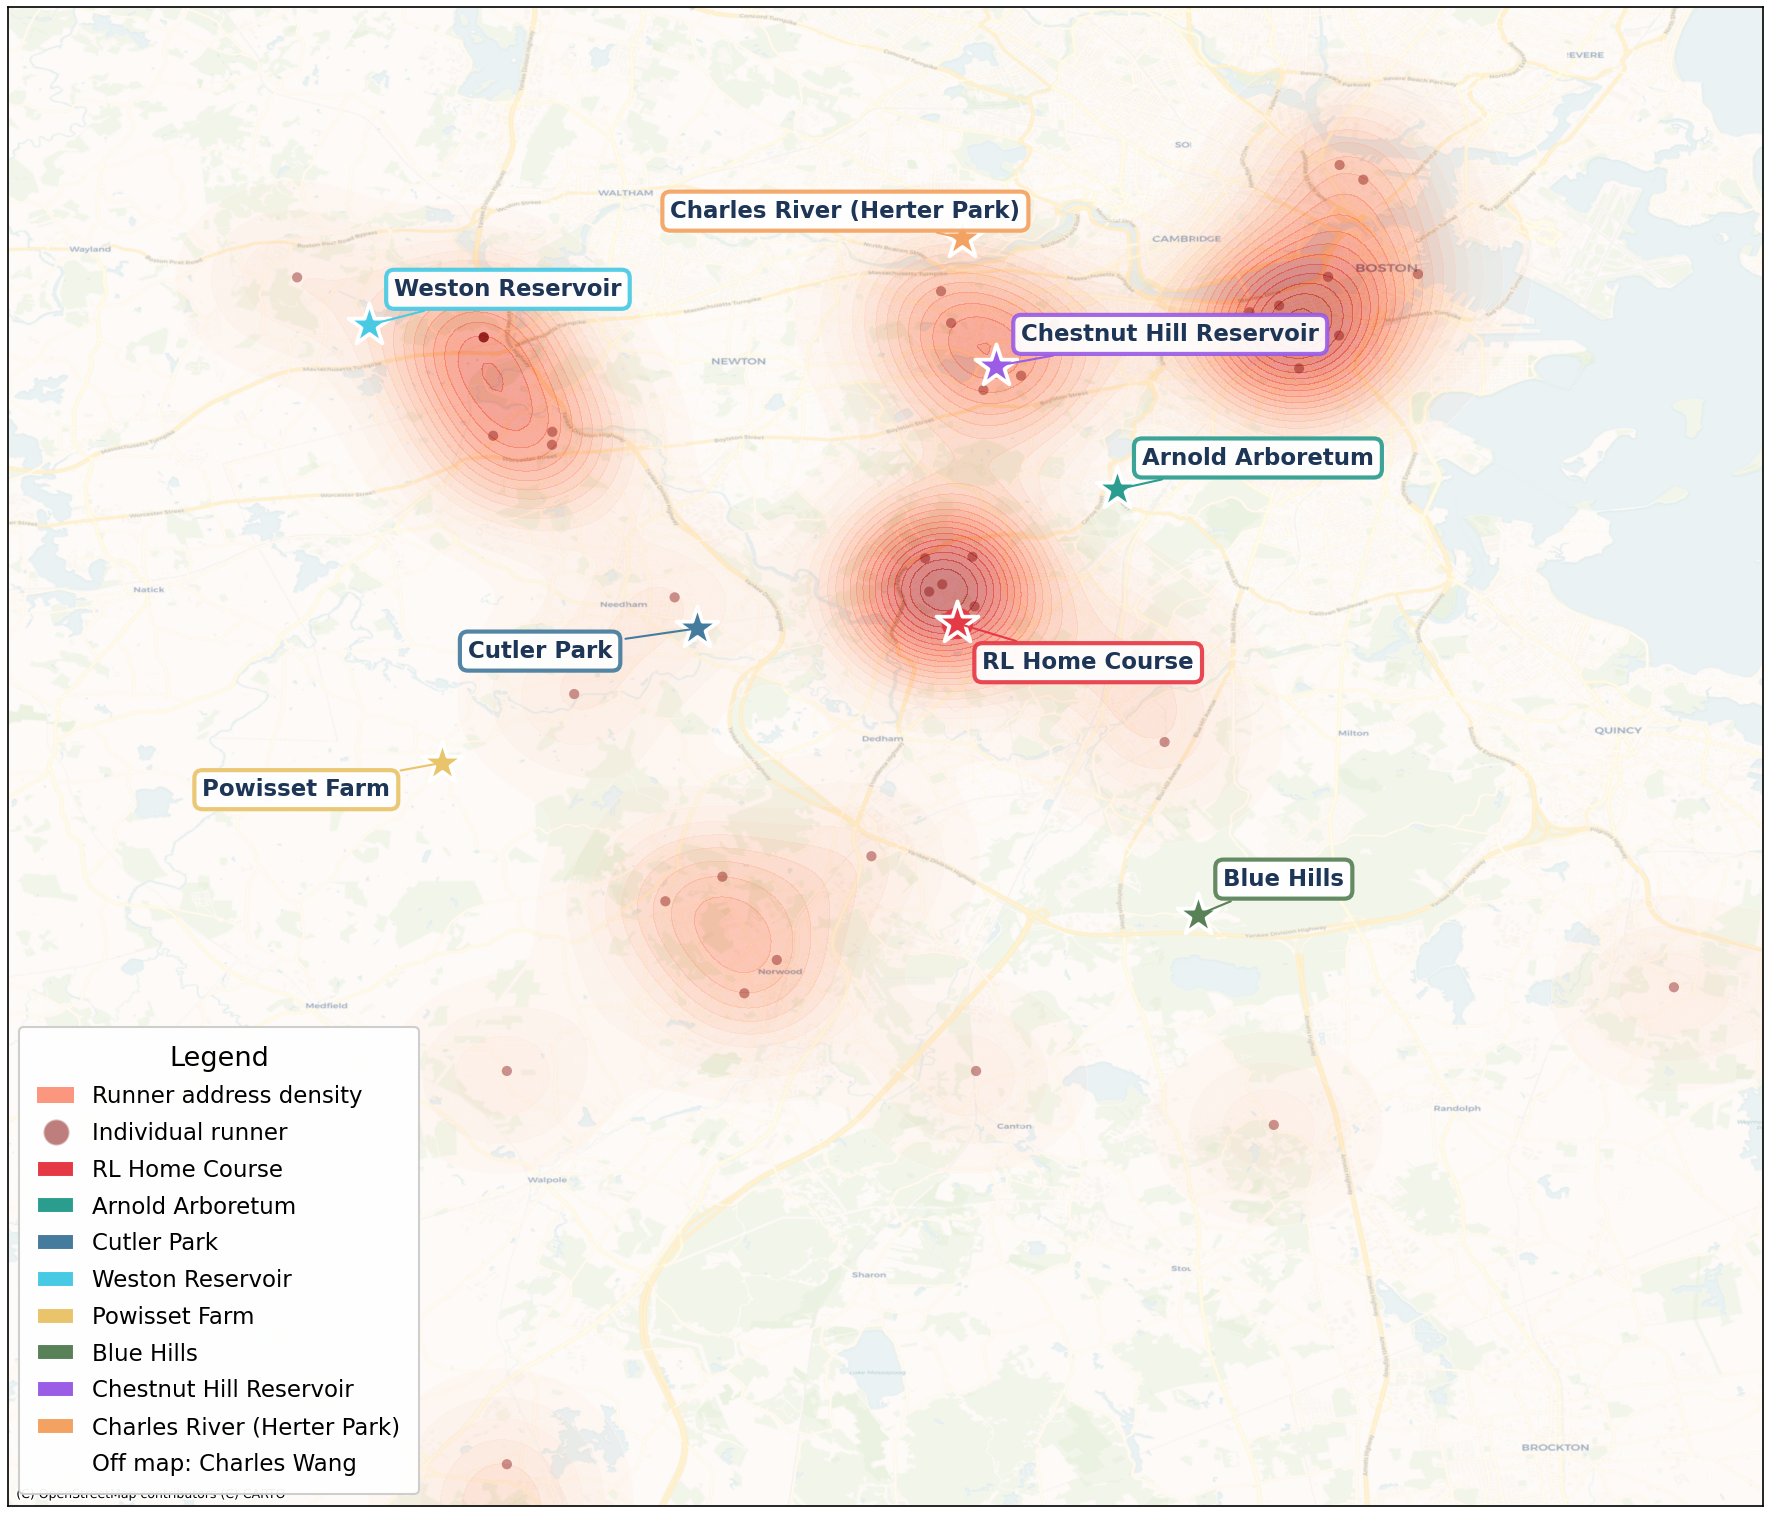
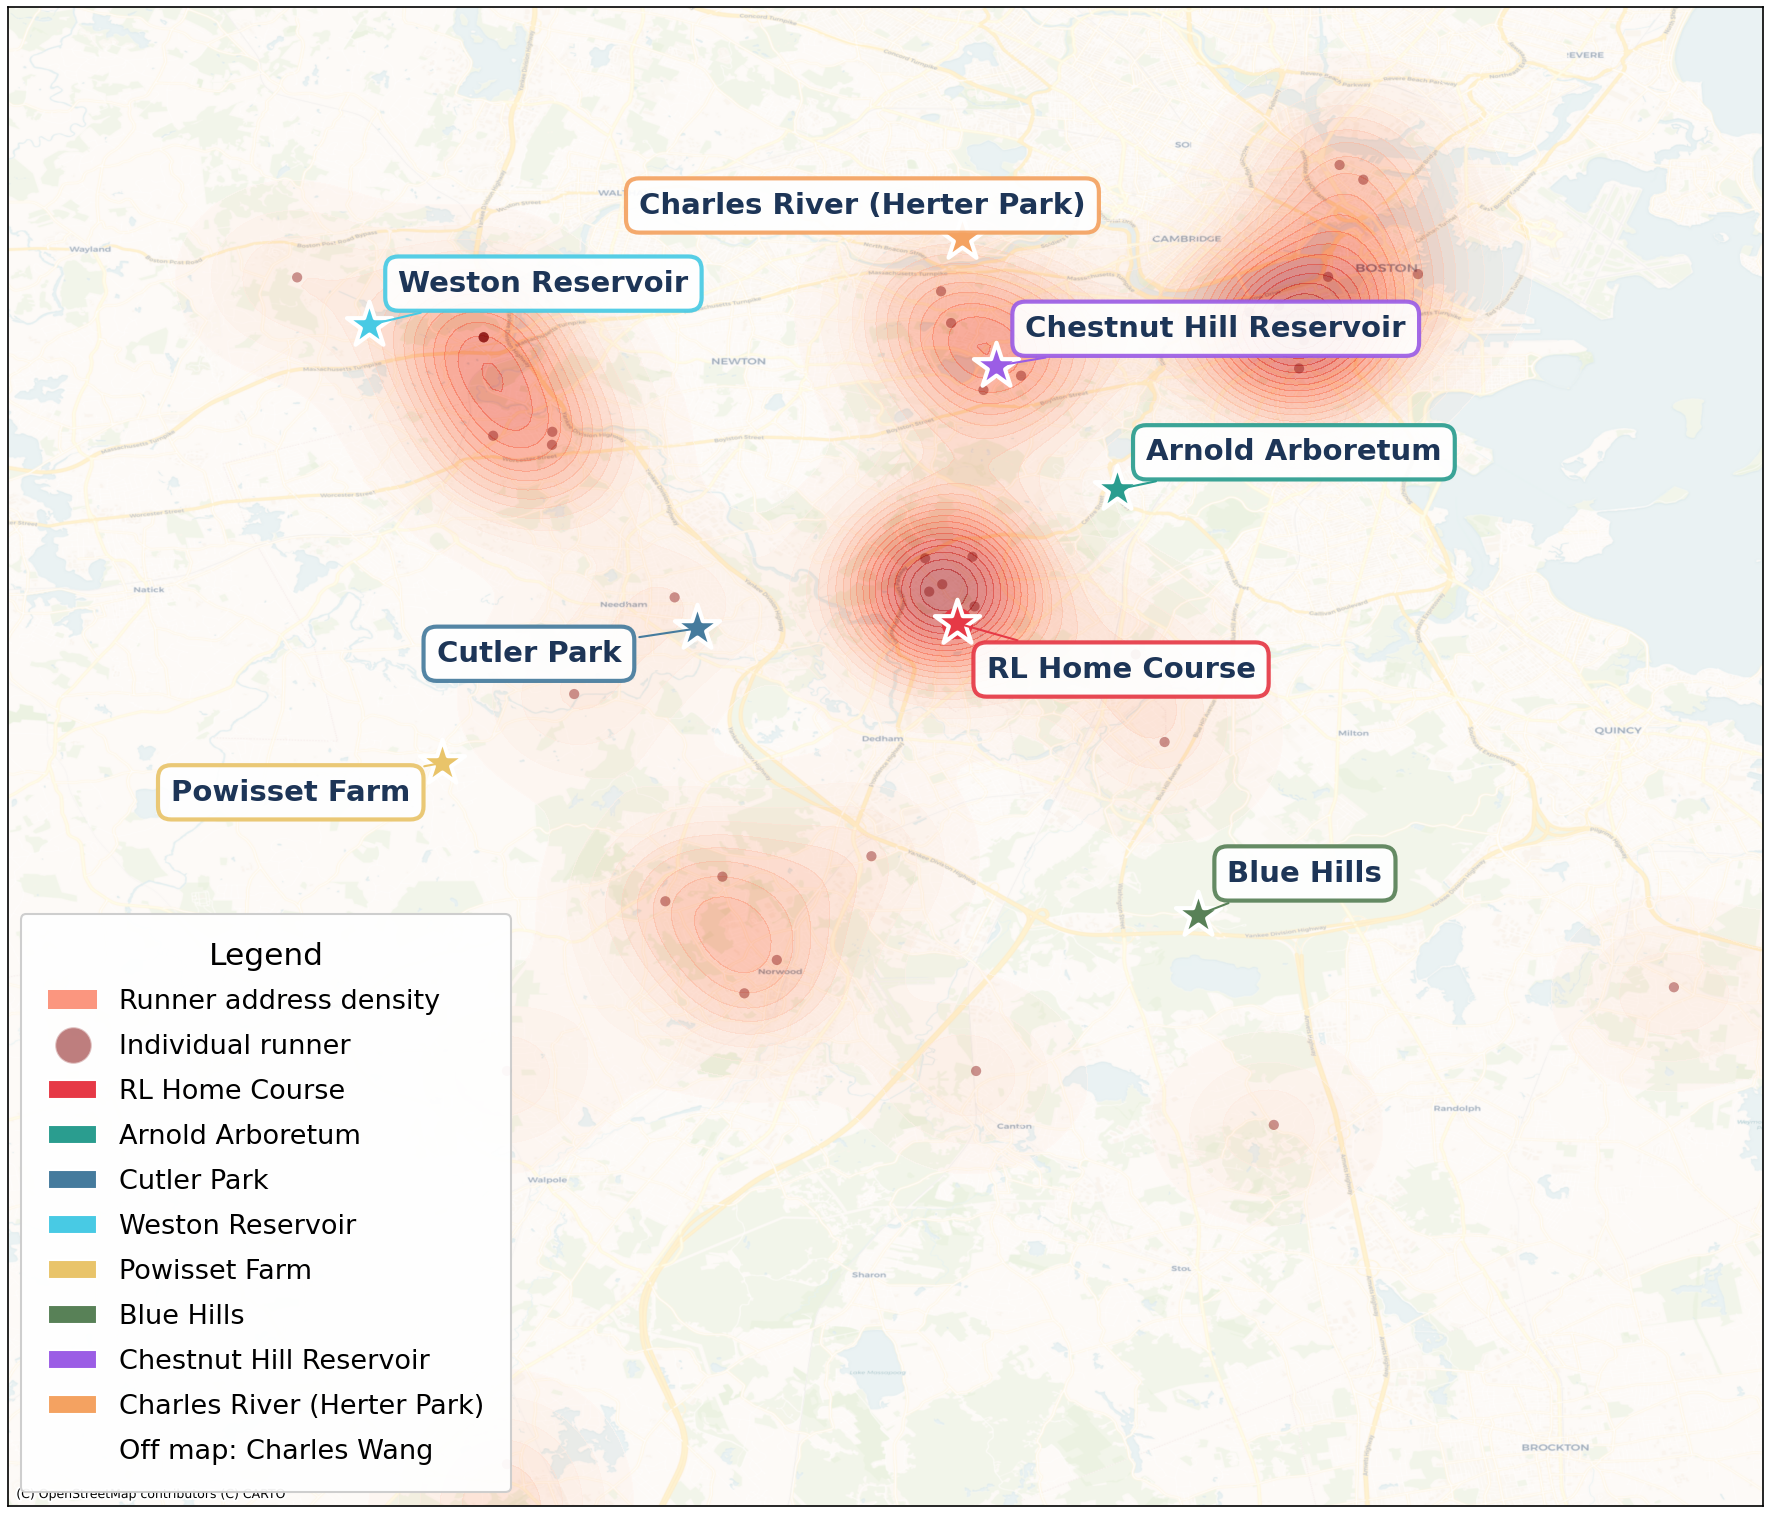
Increase map label and legend font sizes for readability.

diff --git a/generate_xc_map.py b/generate_xc_map.py
@@ -210,18 +210,18 @@ def main():
         lat, lon = coords[address]
         ax.scatter(
             [lon], [lat],
-            s=450, c=color, marker="*", edgecolors="white", linewidths=1.8, zorder=5
+            s=520, c=color, marker="*", edgecolors="white", linewidths=2.0, zorder=5
         )
-        ox, oy = label_offsets.get(label, (10, 10))
+        ox, oy = label_offsets.get(label, (12, 12))
         ax.annotate(
             label,
             (lon, lat),
             xytext=(ox, oy),
             textcoords="offset points",
-            fontsize=11,
+            fontsize=14,
             fontweight="bold",
             color="#1d3557",
-            bbox=dict(boxstyle="round,pad=0.35", fc="white", ec=color, alpha=0.92, lw=2),
+            bbox=dict(boxstyle="round,pad=0.45", fc="white", ec=color, alpha=0.92, lw=2),
             arrowprops=dict(arrowstyle="-", color=color, lw=1.0, shrinkA=2, shrinkB=2),
             zorder=6,
         )
@@ -240,7 +240,7 @@ def main():
 
     legend_items = [
         Patch(facecolor="#fb6a4a", alpha=0.7, label="Runner address density"),
-        plt.Line2D([0], [0], marker="o", color="w", markerfacecolor="#7f0000", markersize=9, alpha=0.5, label="Individual runner"),
+        plt.Line2D([0], [0], marker="o", color="w", markerfacecolor="#7f0000", markersize=11, alpha=0.5, label="Individual runner"),
     ] + run_markers
     if off_map:
         legend_items.append(
@@ -250,14 +250,14 @@ def main():
     ax.legend(
         handles=legend_items,
         loc="lower left",
-        fontsize=11,
+        fontsize=13,
         framealpha=0.95,
         title="Legend",
-        title_fontsize=13,
-        markerscale=1.4,
-        handlelength=1.6,
-        borderpad=0.8,
-        labelspacing=0.6,
+        title_fontsize=15,
+        markerscale=1.6,
+        handlelength=1.8,
+        borderpad=1.0,
+        labelspacing=0.7,
     )
 
     plt.tight_layout()
